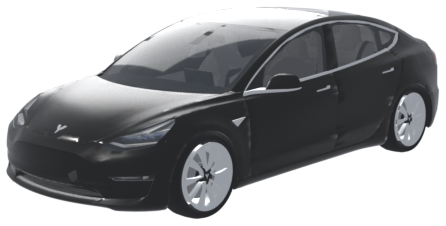
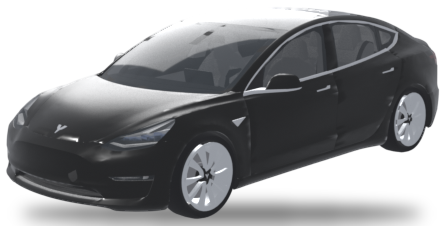
feat(app): automatic headlights, exact map pin, steady full-screen map
- Headlights switch on by themselves from 17:30 to 06:00 while the Yesla is driven (by a player, Assisted
  Driving or Summon) and off when it is parked; the light key still wins until the next change. Host-side.
- A tap on the map drops the pin under the pointer: the position comes from clientX/Y against the map frame,
  not from offsetX, which is measured in whatever element sits under the pointer.
- Full screen hides the rest of the app instead of lifting the map into the fixed top layer, where el.rect()
  reported the in-flow position and the pin landed off by the car column; the centre is kept across the switch.
- Search and plate fields centre their text.
- Car picture: no light fringe around the silhouette, a soft ground shadow under the wheels.

Changed region(s): [[0.0583, 0.8673, 0.9619, 1.0], [0.583, 0.031, 0.7287, 0.0619]]

diff --git a/Assets/yesla/app.js b/Assets/yesla/app.js
@@ -214,6 +214,16 @@ function renderSpots() {
   }
 }
 
+// Where the pointer is inside the map frame. offsetX is measured in the element under the pointer, which is the
+// moved and scaled map picture or a marker more often than the frame itself; clientX is the page, the frame the
+// rect is in.
+function inView(e) {
+  var r = viewportEl.rect ? viewportEl.rect() : null;
+  if (r && typeof e.clientX === 'number') return { x: e.clientX - r.left, y: e.clientY - r.top };
+  if (e.target === viewportEl && typeof e.offsetX === 'number') return { x: e.offsetX, y: e.offsetY };
+  return null;
+}
+
 function placeAt(px, py) {
   var wx = (px - tx) / (WORLD * zoom);
   var wy = (py - ty) / (WORLD * zoom);
@@ -227,7 +237,11 @@ function placeAt(px, py) {
   return best;
 }
 
-// Full screen keeps the point in the middle of the map where it was.
+// Full screen keeps the point in the middle of the map where it was. el.rect() reports the last render, so the
+// new size is only known once the page has been laid out again; until then the centre is held and retried.
+var RECENTRE_TRIES = 12;
+var RECENTRE_MS = 30;
+
 function setFull(on) {
   if (full === on) return;
   var v = view();
@@ -236,8 +250,13 @@ function setFull(on) {
   full = on;
   setClass(appEl, full ? 'app full' : 'app');
   $('full-i').setAttribute('src', full ? 'i-shrink.png' : 'i-expand.png');
-  centreOn(cx, cy);
-  later(function () { centreOn(cx, cy); }, 0);
+  var tries = 0;
+  (function recentre() {
+    var now = view();
+    if ((now.w === v.w && now.h === v.h) && ++tries < RECENTRE_TRIES) { later(recentre, RECENTRE_MS); return; }
+    if (tries >= RECENTRE_TRIES) console.warn('[map] the map kept its old size after the full-screen switch - centred on it anyway');
+    centreOn(cx, cy);
+  })();
 }
 
 // ---- search ----------------------------------------------------------------------------------------------------
@@ -617,10 +636,11 @@ $('plate-reset').addEventListener('click', resetPlate);
 viewportEl.addEventListener('click', function (e) {
   if (skipTap) { skipTap = false; return; }
   if (searching || query) { closeSearch(); return; }
-  if (typeof e.offsetX !== 'number') return;
-  var hit = placeAt(e.offsetX, e.offsetY);
+  var p = inView(e);
+  if (!p) { console.warn('[map] click without a position - no pin set'); return; }
+  var hit = placeAt(p.x, p.y);
   if (hit) { selectPlace(hit); return; }
-  selectPoint((e.offsetX - tx) / (WORLD * zoom), (e.offsetY - ty) / (WORLD * zoom));
+  selectPoint((p.x - tx) / (WORLD * zoom), (p.y - ty) / (WORLD * zoom));
 });
 
 viewportEl.addEventListener('drag', function (e) {
@@ -632,8 +652,9 @@ viewportEl.addEventListener('drag', function (e) {
 
 viewportEl.addEventListener('wheel', function (e) {
   var v = view();
-  var px = typeof e.offsetX === 'number' ? e.offsetX : v.w / 2;
-  var py = typeof e.offsetY === 'number' ? e.offsetY : v.h / 2;
+  var p = inView(e);
+  var px = p ? p.x : v.w / 2;
+  var py = p ? p.y : v.h / 2;
   zoomAt(zoom + (e.wheelDelta > 0 ? -WHEEL_STEP : WHEEL_STEP), px, py);
 });
 

diff --git a/Assets/yesla/app.css b/Assets/yesla/app.css
@@ -91,8 +91,13 @@ body {
 
 .viewport { flex: 1; min-height: 0; overflow: hidden; border-radius: 12px; background: #1b1d21; touch-action: none; }
 
-/* Full screen: the map leaves its pane and covers the whole app. */
-.app.full .viewport { position: fixed; left: 0; top: 0; right: 0; bottom: 0; border-radius: 0; }
+/* Full screen: everything around the map goes, and the map fills the app in place. Not position: fixed - a
+   top-layer box is drawn apart from the page on every rebuild, and el.rect() reports it where it would have been
+   in the flow, which put a tapped pin off by the width of the car column. */
+.app.full .car, .app.full .tabs, .app.full .segs { display: none; }
+.app.full .side { padding: 0; gap: 0; }
+.app.full .pane { gap: 0; }
+.app.full .viewport { border-radius: 0; }
 
 /* 2048 map units at 1250.8 css px for zoom 1; every size is stated because the renderer cannot read a
    picture's own size. */
@@ -135,7 +140,8 @@ body {
   background: #15161af0; box-shadow: 0 2px 8px #00000099;
 }
 .ico-s { width: 14px; height: 14px; flex: none; }
-.search { flex: 1; min-width: 0; height: 28px; font-size: 12px; color: var(--text); background: transparent; border: 0; padding: 0; }
+/* The renderer puts an input's text at the top of its box, so the padding centres the line in the 28 px. */
+.search { flex: 1; min-width: 0; height: 28px; font-size: 12px; color: var(--text); background: transparent; border: 0; padding: 6px 0 0; }
 .results {
   max-height: 210px; overflow-y: auto; min-height: 0; padding: 4px; gap: 1px; border-radius: 10px;
   background: #15161af5; box-shadow: 0 3px 12px #000000aa;
@@ -232,7 +238,7 @@ body {
 }
 .plateedit { flex-direction: row; align-items: center; gap: 8px; }
 .pfield {
-  flex: 1; min-width: 0; height: 32px; padding: 0 10px; border-radius: 8px; background: var(--raised);
+  flex: 1; min-width: 0; height: 32px; padding: 7px 10px 0; border-radius: 8px; background: var(--raised);
   border: 0; color: var(--text); font-size: 14px; letter-spacing: 2px;
 }
 .pfield:focus { background: var(--raised-hi); }

diff --git a/Vehicle/AutoLights.cs b/Vehicle/AutoLights.cs
@@ -1,0 +1,85 @@
+using System;
+using System.Collections.Generic;
+using Il2CppScheduleOne.DevUtilities;
+using Il2CppScheduleOne.GameTime;
+using Il2CppScheduleOne.Vehicles;
+
+namespace Yesla.Vehicle
+{
+    /// <summary>
+    /// Automatic headlights: a Yesla that is driven, by a player or by Assisted Driving, has its headlights on from
+    /// 17:30 to 06:00, the hours vanilla's NPC drivers switch theirs on (<c>NPC.cs:687</c>). Vanilla cars have no such
+    /// switch; only the motorbike does.
+    ///
+    /// It switches only when the wish changes: night falls, the day breaks, a drive starts or ends. A player who
+    /// presses the light key in between keeps that choice until the next change. Runs on the host, which writes the
+    /// lights' SyncVar for every player.
+    /// </summary>
+    internal static class AutoLights
+    {
+        private const int OnFrom = 1730, OffFrom = 600;
+        private const float CheckEvery = 1f;
+        /// <summary>An empty car moving faster than this is being driven by Summon.</summary>
+        private const float MovingKmh = 3f;
+
+        private static readonly Dictionary<IntPtr, bool> Wanted = new Dictionary<IntPtr, bool>();
+        private static readonly List<IntPtr> Seen = new List<IntPtr>();
+        private static float _next;
+        private static bool _warned;
+
+        internal static void Tick()
+        {
+            float now = Time.time;
+            if (now < _next) return;
+            _next = now + CheckEvery;
+            if (!NetworkSingleton<TimeManager>.InstanceExists || !NetworkSingleton<VehicleManager>.InstanceExists)
+            {
+                if (!_warned) Core.Log.Warning("[Lights] no clock or vehicle manager yet - automatic headlights wait.");
+                _warned = true;
+                return;
+            }
+            _warned = false;
+            bool night = NetworkSingleton<TimeManager>.Instance.IsCurrentTimeWithinRange(OnFrom, OffFrom);
+            var all = NetworkSingleton<VehicleManager>.Instance.AllVehicles;
+            Seen.Clear();
+            for (int i = 0; i < all.Count; i++)
+            {
+                LandVehicle car = all[i];
+                if (car == null || !Phone.YeslaApp.IsYesla(car)) continue;
+                Seen.Add(car.Pointer);
+                bool driven = car.IsOccupied || (car.Agent != null && car.Agent.AutoDriving) || Mathf.Abs(car.Speed_Kmh) > MovingKmh;
+                bool want = night && driven;
+                if (Wanted.TryGetValue(car.Pointer, out bool was) && was == want) continue;
+                Wanted[car.Pointer] = want;
+                Apply(car, want, night, driven);
+            }
+            if (Wanted.Count > Seen.Count)
+            {
+                var gone = new List<IntPtr>();
+                foreach (IntPtr p in Wanted.Keys) if (!Seen.Contains(p)) gone.Add(p);
+                foreach (IntPtr p in gone) Wanted.Remove(p);
+            }
+        }
+
+        private static void Apply(LandVehicle car, bool on, bool night, bool driven)
+        {
+            VehicleLights lights = car.lights;
+            if (lights == null) { Core.Log.Warning("[Lights] " + car.VehicleName + " #" + Fleet.NetId(car) + " has no lights to switch."); return; }
+            if (lights.HeadlightsOn == on) return;
+            try
+            {
+                lights.HeadlightsOn = on;
+                Core.Log.Msg("[Lights] " + car.VehicleName + " #" + Fleet.NetId(car) + " headlights " + (on ? "on" : "off")
+                             + " (" + (night ? "night" : "day") + ", " + (driven ? "driven" : "parked") + ").");
+            }
+            catch (Exception e) { Core.Log.Error("[Lights] switching the headlights of " + car.VehicleName + " failed: " + e.Message); }
+        }
+
+        internal static void Reset()
+        {
+            Wanted.Clear();
+            _next = 0f;
+            _warned = false;
+        }
+    }
+}

diff --git a/Core.cs b/Core.cs
@@ -79,6 +79,7 @@ namespace Yesla
             Vehicle.Plate.Reset();
             DestinationMarker.Reset();
             Vehicle.Indicators.Reset();
+            Vehicle.AutoLights.Reset();
             KeyHint.Reset();
             FirstPerson.Reset();
             Visual.Viz.Reset();
@@ -100,6 +101,7 @@ namespace Yesla
             Vehicle.Sentry.Tick();
             Vehicle.Plate.Tick();
             Vehicle.Indicators.Tick();
+            if (Net.YeslaNet.IsHost) Vehicle.AutoLights.Tick();
             DestinationMarker.Tick();
             FirstPerson.Tick();
             Visual.Viz.Tick();
